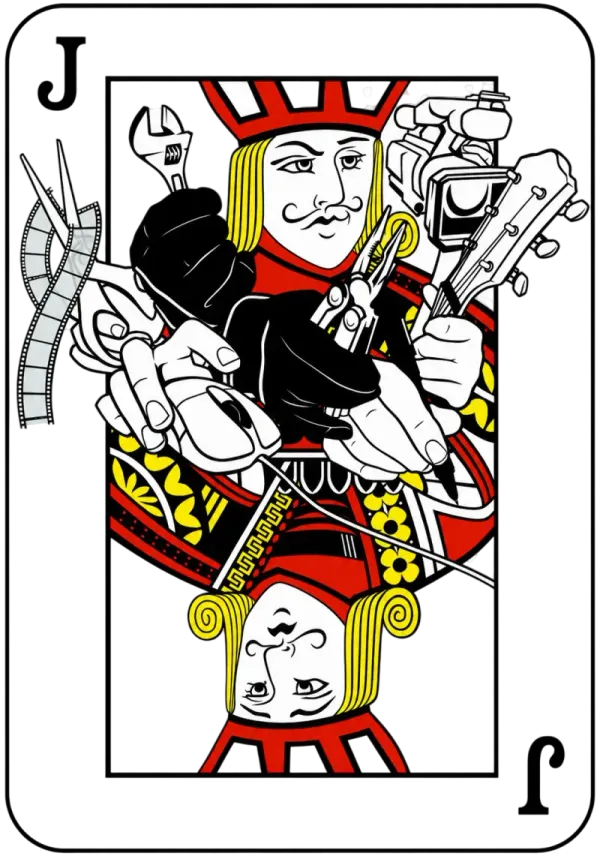
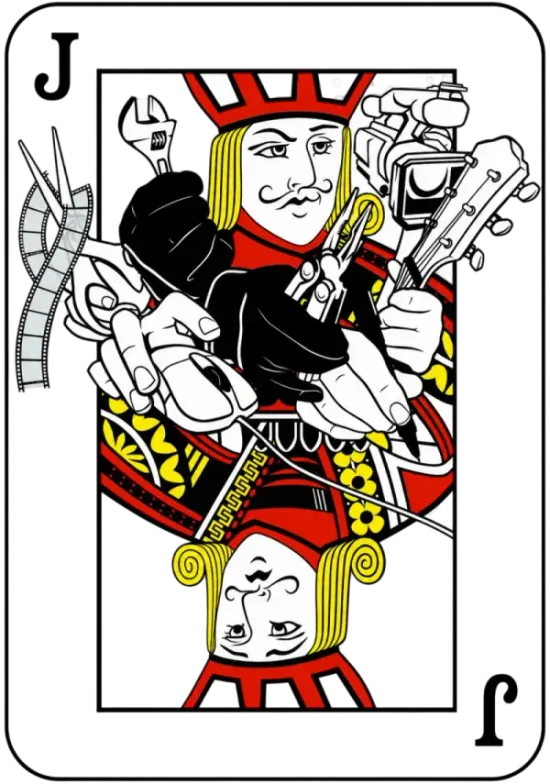
perf: resize images to exact lighthouse recommended dimensions

diff --git a/src/App.tsx b/src/App.tsx
@@ -296,8 +296,8 @@ export default function App() {
                 <img
                   src={jackImage}
                   alt="Priyank Verma - The Jack"
-                  width="600"
-                  height="856"
+                  width="550"
+                  height="784"
                   className="w-full h-auto block object-cover scale-105 opacity-90 transition-all duration-700 ease-[0.16, 1, 0.3, 1] hover:scale-110 hover:opacity-100"
                   referrerPolicy="no-referrer"
                   fetchPriority="high"
@@ -407,8 +407,8 @@ export default function App() {
                   <img
                     src={priyankImage}
                     alt="Priyank Verma - Origins"
-                    width="800"
-                    height="800"
+                    width="614"
+                    height="614"
                     className="w-full h-full object-cover opacity-100 md:opacity-90 md:group-hover:opacity-100 transition-opacity duration-700 pointer-events-none"
                     referrerPolicy="no-referrer"
                     loading="lazy"
